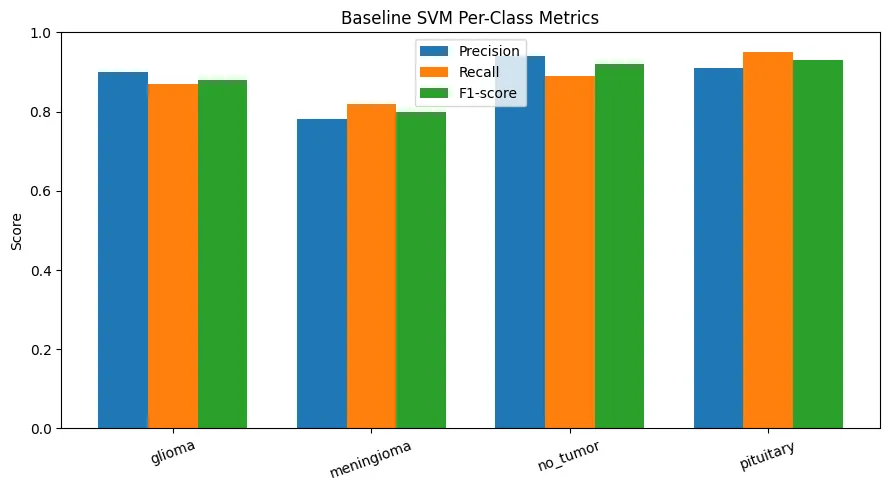
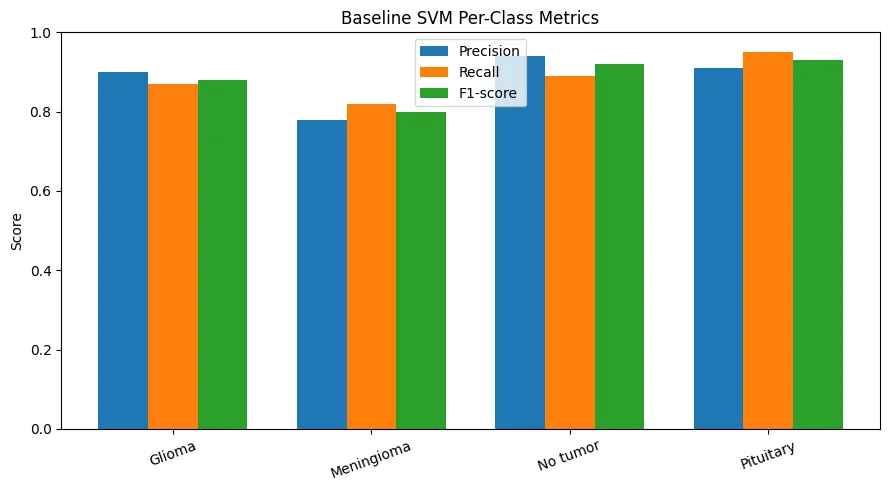
Add minor changes to plot

diff --git a/src/plot_baseline_metrics.py b/src/plot_baseline_metrics.py
@@ -5,7 +5,7 @@ import matplotlib.pyplot as plt
 
 def main():
     # Hardcoded metrics from our best baseline run (seed 0)
-    class_names = ["glioma", "meningioma", "no_tumor", "pituitary"]
+    class_names = ["Glioma", "Meningioma", "No tumor", "Pituitary"]
     precision = [0.90, 0.78, 0.94, 0.91]
     recall = [0.87, 0.82, 0.89, 0.95]
     f1_score = [0.88, 0.80, 0.92, 0.93]
@@ -32,15 +32,20 @@ def main():
     plt.close()
 
     # Line plot with markers
-    plt.figure(figsize=(9, 5))
+    plt.figure(figsize=(8, 4.5))
     plt.plot(class_names, precision, marker="o", label="Precision")
     plt.plot(class_names, recall, marker="s", label="Recall")
     plt.plot(class_names, f1_score, marker="^", label="F1-score")
 
-    plt.ylim(0, 1.0)
-    plt.ylabel("Score")
-    plt.title("Baseline SVM Per-Class Metrics")
-    plt.legend()
+    plt.ylim(0.7, 1.0)
+    plt.margins(x=0.02)
+    plt.xlabel("Class", fontsize=14)
+    plt.ylabel("Score", fontsize=14)
+    plt.title("Baseline SVM Per-Class Metrics", fontsize=16)
+    plt.xticks(fontsize=12)
+    plt.yticks(fontsize=12)
+    plt.legend(fontsize=12)
+
     plt.tight_layout()
     plt.savefig(os.path.join(output_dir, "line_plot_metrics.webp"), bbox_inches="tight")
     plt.close()
